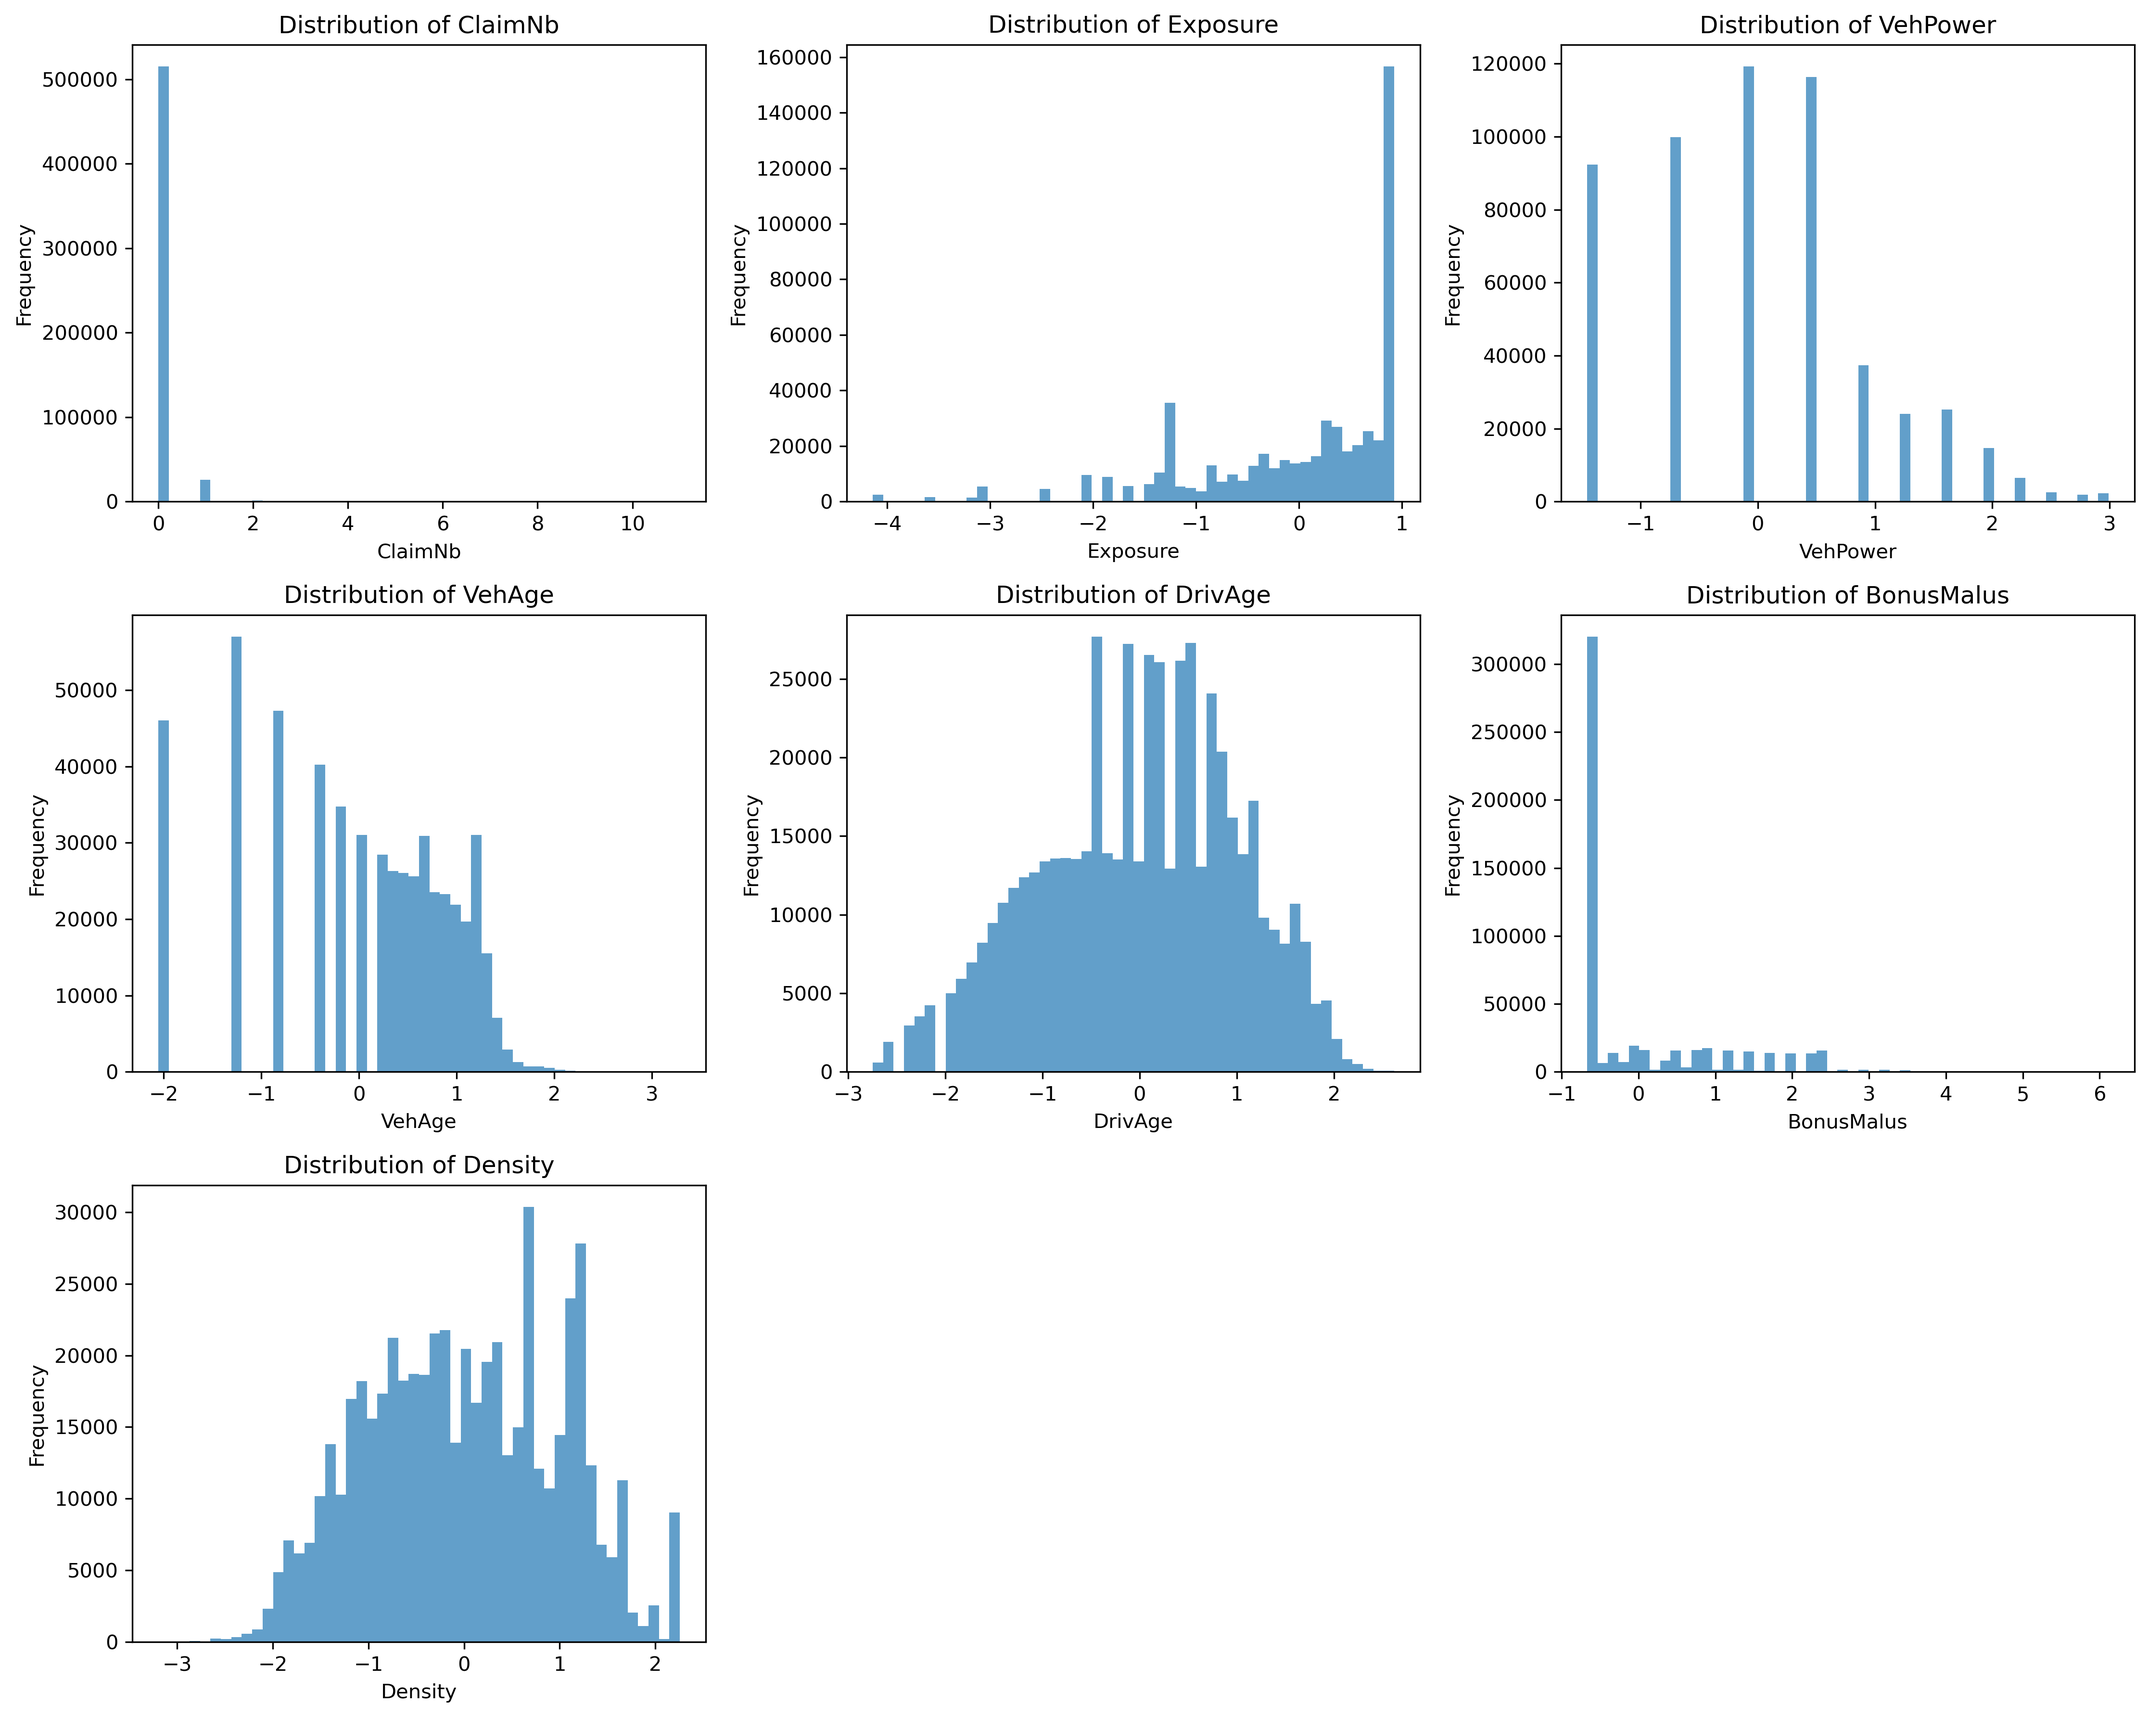
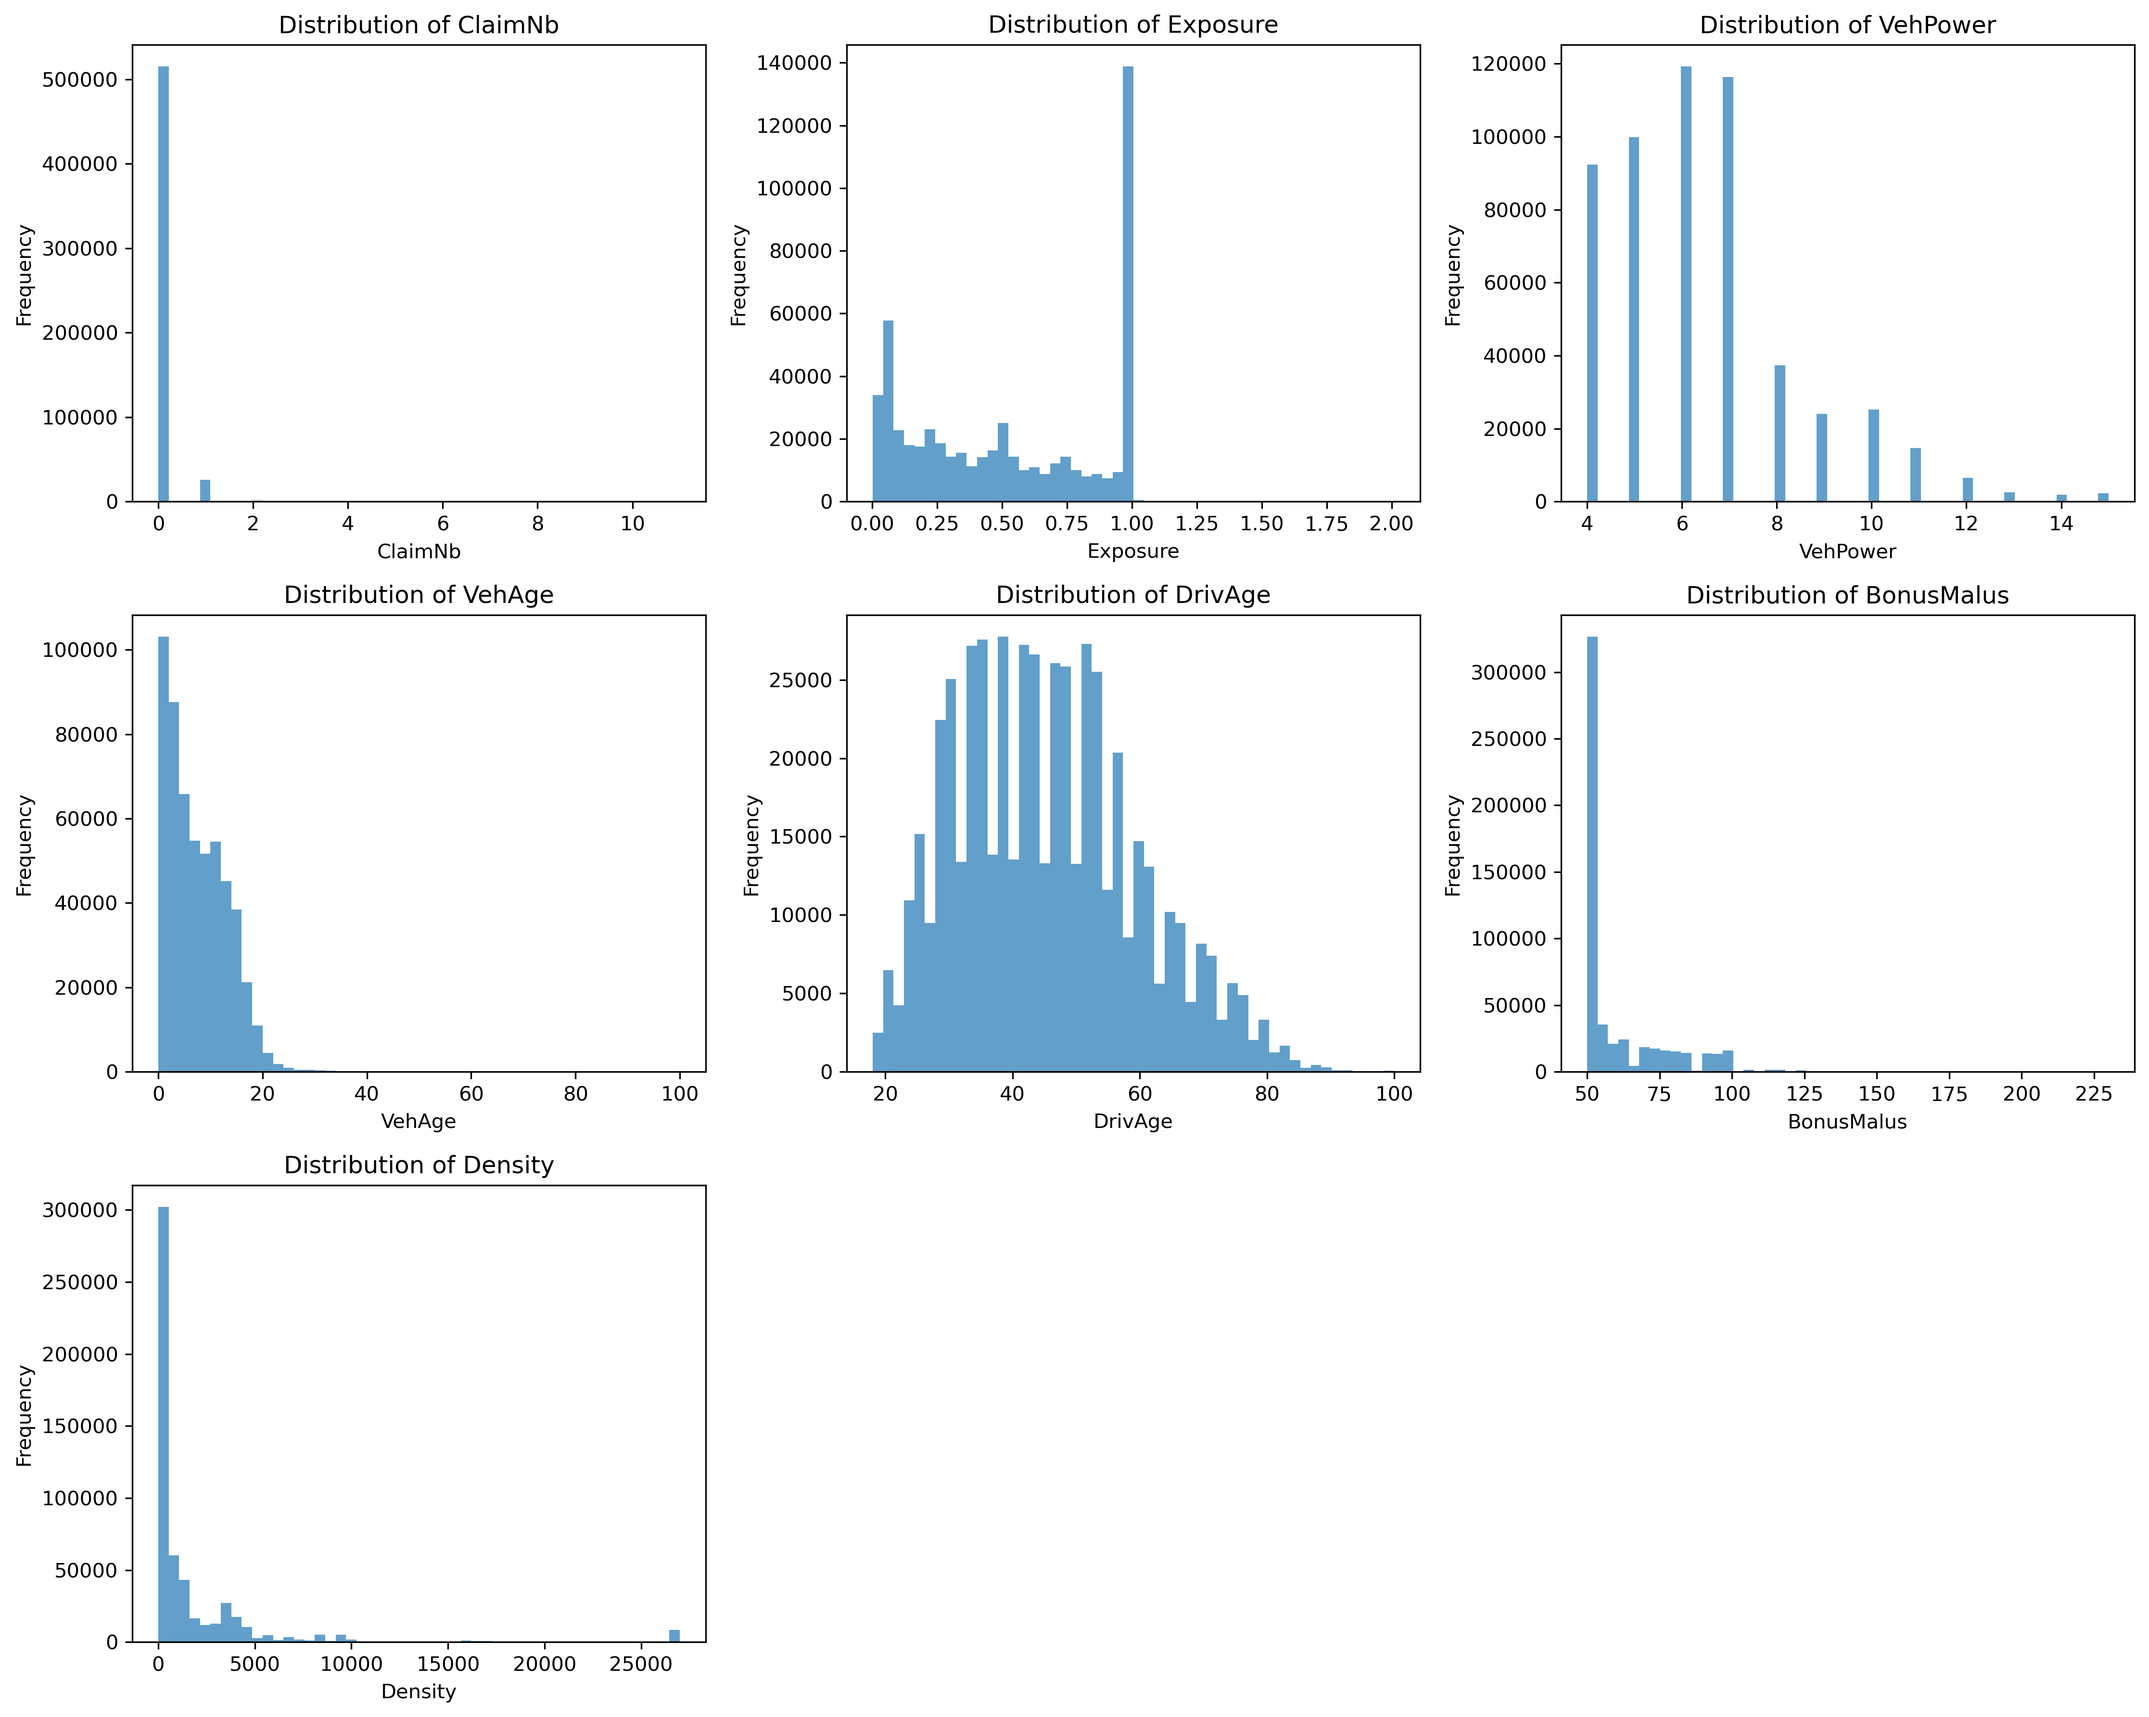
Add basic analysis outputs

diff --git a/Project/basic_analysis.py b/Project/basic_analysis.py
@@ -1,0 +1,137 @@
+import os
+import pandas as pd         
+import numpy as np          
+import matplotlib.pyplot as plt 
+from pathlib import Path
+
+script_dir = os.path.dirname(os.path.abspath(__file__))
+ml_folder = os.path.dirname(script_dir) 
+results_dir = os.path.join(ml_folder, 'results')
+
+def load_data(file_path):
+    """Load and explore the dataset"""
+    df = pd.read_csv(file_path)
+    print(f"Dataset shape: {df.shape}")
+    print(f"Total records: {len(df):,}")
+    print(df.info())
+    print(df.head())
+    print(df.describe())
+    
+    return df
+
+def assess_data(df):
+    """Check for missing values, duplicates, and data quality issues"""
+    
+    missing_vals = df.isnull().sum()
+    if missing_vals.sum() > 0:
+        print("Missing values per column:")
+        print(missing_vals[missing_vals > 0])
+    else:
+        print("No missing values")
+
+    duplicates = df.duplicated().sum()
+    print(f"Duplicate rows: {duplicates}")
+
+    numeric_cols = df.select_dtypes(include=[np.number]).columns
+    
+    for col in numeric_cols:
+        min_val = df[col].min()
+        max_val = df[col].max()
+        print(f"{col}: min={min_val}, max={max_val}")
+        
+        if col == 'Exposure' and (min_val <= 0 or max_val > 1):
+            print(f"{col} values outside expected range [0,1]")
+        if col == 'ClaimNb' and min_val < 0:
+            print(f"{col} has negative values")
+        if col in ['VehAge', 'DrivAge'] and min_val < 0:
+            print(f"{col} has negative values")
+
+def analyze_features(df,results_dir):
+    """Analyze categorical and numerical features"""
+
+    categorical_cols = ['Area', 'VehBrand', 'VehGas', 'Region']
+    
+    for col in categorical_cols:
+        if col in df.columns:  
+            print(f"\n{col} - Unique values: {df[col].nunique()}")
+            print(df[col].value_counts().head())
+        else:
+            print(f"\n{col} - Column not found in dataset (skipped)")
+    
+    numerical_cols = ['ClaimNb', 'Exposure', 'VehPower', 'VehAge', 'DrivAge', 'BonusMalus', 'Density']
+
+    fig, axes = plt.subplots(3, 3, figsize=(15, 12))
+    axes = axes.ravel()
+
+    for i, col in enumerate(numerical_cols):
+        if i < len(axes):
+            axes[i].hist(df[col], bins=50, alpha=0.7)
+            axes[i].set_title(f'Distribution of {col}')
+            axes[i].set_xlabel(col)
+            axes[i].set_ylabel('Frequency')
+
+    for i in range(len(numerical_cols), len(axes)):
+        fig.delaxes(axes[i])
+
+    plt.tight_layout()
+    feature_path = os.path.join(results_dir, 'feature_distributions.png')
+    plt.savefig(feature_path, dpi=300, bbox_inches='tight')
+    plt.close(fig)
+    print(f"Saved feature distributions to: {feature_path}")
+
+def detect_outliers(df,results_dir):
+    """Detect and visualize outliers"""
+    numerical_cols = ['Exposure', 'VehPower', 'VehAge', 'DrivAge', 'BonusMalus', 'Density']
+    
+    fig, axes = plt.subplots(2, 3, figsize=(15, 10))
+    axes = axes.ravel()
+    
+    for i, col in enumerate(numerical_cols):
+        axes[i].boxplot(df[col])
+        axes[i].set_title(f'Box Plot: {col}')
+        axes[i].set_ylabel(col)
+
+        Q1 = df[col].quantile(0.25)
+        Q3 = df[col].quantile(0.75)
+        IQR = Q3 - Q1
+        lower_bound = Q1 - 1.5 * IQR
+        upper_bound = Q3 + 1.5 * IQR
+        
+        outliers = df[(df[col] < lower_bound) | (df[col] > upper_bound)]
+        print(f"{col}: {len(outliers)} outliers ({len(outliers)/len(df)*100:.2f}%)")
+ 
+        if col == 'Exposure':
+            exposure_issues = df[(df[col] <= 0) | (df[col] > 1)]
+            print(f"  Exposure outside [0,1]: {len(exposure_issues)} records")
+    
+    plt.tight_layout()
+    outlier_path = os.path.join(results_dir, 'outlier_analysis.png')
+    plt.savefig(outlier_path, dpi=300, bbox_inches='tight')
+    plt.close(fig)
+    print(f"Saved outlier boxplots to: {outlier_path}")
+
+def run_complete_analysis(file_path):
+    if not os.path.exists(results_dir):
+        os.makedirs(results_dir)
+
+    df = load_data(file_path)
+    assess_data(df)
+    analyze_features(df, results_dir)
+    detect_outliers(df, results_dir)
+
+    return df
+
+if __name__ == "__main__":
+    file_path = r"c:\Users\walde\OneDrive - ITU\Documents\Machine learning\data\claims_train.csv"
+    
+    print(f"Looking for data file: {file_path}")
+    
+    try:
+        dataset = run_complete_analysis(file_path)
+        print(f"SUCCESS! Dataset loaded with shape: {dataset.shape}")
+        
+    except FileNotFoundError:
+        print(f" Error: File '{file_path}' not found!")
+ 
+    except Exception as e:
+        print(f"Error: {e}")
